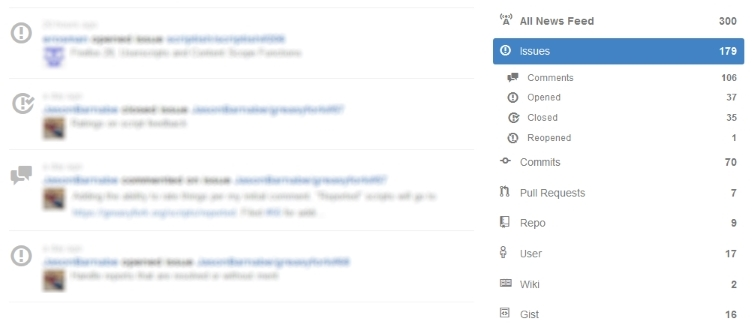
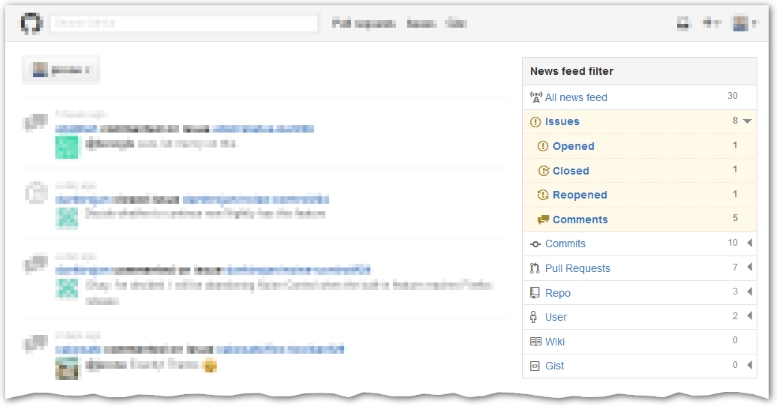
:clapper: Released new version GitHub News Feed Filter;

diff --git a/Github_News_Feed_Filter/Github_News_Feed_Filter.user.js b/Github_News_Feed_Filter/Github_News_Feed_Filter.user.js
@@ -14,7 +14,7 @@
 // @include     https://github.com/orgs/*/dashboard
 // @include     https://github.com/orgs/*/dashboard?*
 // @include     https://github.com/*tab=activity*
-// @version     5.3
+// @version     6.0
 // @grant       none
 // ==/UserScript==
 /* global Event */

diff --git a/Github_News_Feed_Filter/README.md b/Github_News_Feed_Filter/README.md
@@ -10,7 +10,7 @@
 
 Add filters for [Github homepage](https://github.com) news feed items.
 
-This script also works for organizations and on user profiles [public activity](https://github.com/jerone?tab=activity).
+This script also works for organizations and on user profiles [public activity](https://github.com/jerone?tab=activity) (page refresh is required).
 
 Currently integrated filters:
 
@@ -31,14 +31,14 @@ Currently integrated filters:
     * Created
     * Public
     * Forked
-    * Branched
+    * Deleted
+    * Branch
         * Created
         * Deleted
-    * Tagged
+    * Tag
         * Added
         * Removed
-    * Released
-    * Deleted
+    * Release
 * User
     * Starred
     * Member added
@@ -56,13 +56,14 @@ Currently integrated filters:
 ## Compatible
 
 * [![](https://raw.github.com/jerone/UserScripts/master/_resources/Greasemonkey.png) Greasemonkey](https://addons.mozilla.org/firefox/addon/greasemonkey/) on [![](https://raw.github.com/jerone/UserScripts/master/_resources/Firefox.png) Mozilla Firefox](http://www.mozilla.org/en-US/firefox/fx/#desktop) desktop.
-* [![](https://raw.github.com/jerone/UserScripts/master/_resources/Scriptish.png) Scriptish](https://addons.mozilla.org/firefox/addon/scriptish/) on [![](https://raw.github.com/jerone/UserScripts/master/_resources/Firefox.png) Mozilla Firefox](http://www.mozilla.org/en-US/firefox/fx/#desktop) desktop.
 
 <sub>Please [notify](https://github.com/jerone/UserScripts/issues/new?title=Userscript%20%3Cname%3E%20%28%3Cversion%3E%29%20also%20works%20in%20%3Cbrowser%3E%20on%20%3Cdesktop/device%3E) when this userscript is successfully tested in another browser...</sub>
 
 
 ## Version History
 
+* **6.0**
+    * Fixed issues after Github site update (https://github.com/jerone/UserScripts/issues/68);
 * **5.3**
     * Added filter history support;
 * **5.2**
@@ -104,7 +105,6 @@ Currently integrated filters:
 ## TODO
 
 - ~~Remember filter choice (use href);~~
-- Remove first alert border-top;
 - ~~Can probably run on users public activity stream too (https://github.com/jerone?tab=activity);~~ Only works on direct access.
 - Filter on project;
 
